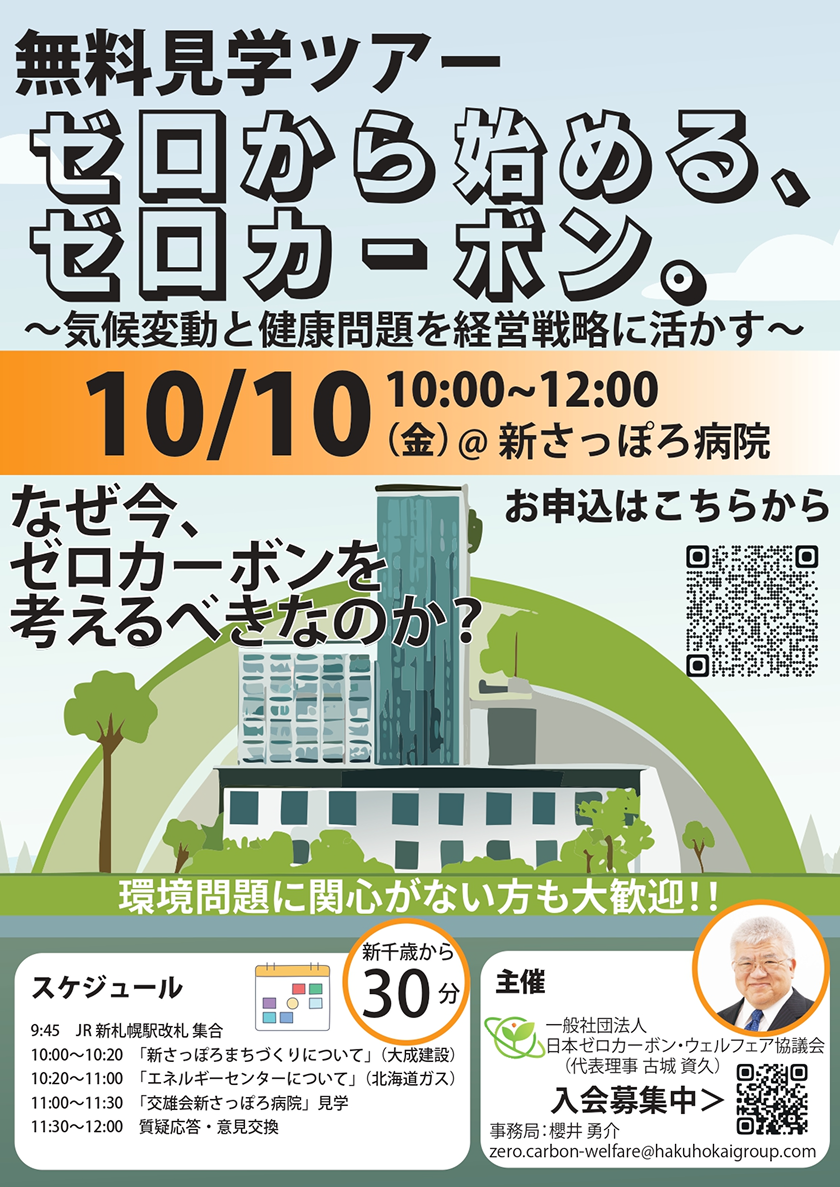
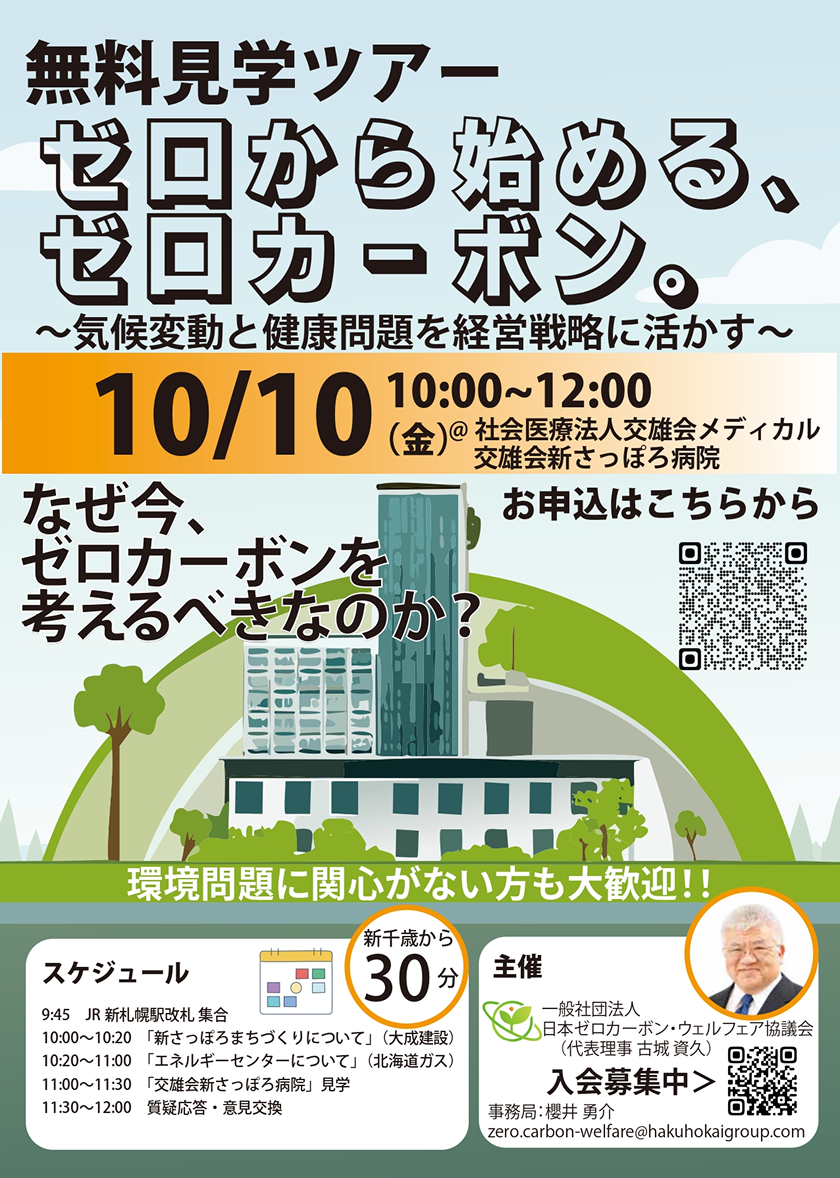
---

diff --git a/index.html b/index.html
@@ -193,11 +193,11 @@
 
                     <span style="color: #669E5E;font-weight: 700;">開催概要</span><br>
                     ・日時：2025年10月10日（金）10:00〜12:00（予定）<br>
-                    ・会場：新さっぽろエネルギーセンター・交雄会新さっぽろ病院<br><br>
+                    ・会場：社会医療法人 交雄会メディカル 交雄会新さっぽろ病院<br><br>
 
                     <span style="color: #669E5E;font-weight: 700;">なぜ今、ゼロカーボンを考えるべきなのか？</span><br>
                     気候変動は遠い未来の話ではありません。<br>近年の夏の猛暑は、熱中症をはるかに上回る「暑熱関連死」という新たな健康問題を引き起こしています。これは、医療機関にとって無視できない経営課題です。しかし、この課題は同時に大きなチャンスでもあります。<br>
-                    「新さっぽろ病院」は、街全体でエネルギーを管理する先進的な取り組みにより、環境負荷を下げながらも、大幅なコスト削減と経営効率の向上を実現しました。この見学ツアーでは、単なる環境問題への対応に留まらない、病院経営を根本から変えるヒントを掴むことができます。<br><br>
+                    「社会医療法人 交雄会メディカル 交雄会新さっぽろ病院」は、街全体でエネルギーを管理する先進的な取り組みにより、環境負荷を下げながらも、大幅なコスト削減と経営効率の向上を実現しました。この見学ツアーでは、単なる環境問題への対応に留まらない、病院経営を根本から変えるヒントを掴むことができます。<br><br>
 
                     <span style="color: #669E5E;font-weight: 700;">見学ツアーで学べること</span><br>
                     ・コスト削減：省エネ型機器やエネルギーセンターの活用による、電気・熱供給の効率化<br>
@@ -209,7 +209,7 @@
                     ・9:45　JR新札幌駅改札 集合<br>
                     ・10:00〜10:20　「新さっぽろまちづくりについて」説明（大成建設より）<br>
                     ・10:20〜11:00　「エネルギーセンターについて」説明・見学（北海道ガスより）<br>
-                    ・11:00〜11:30　「交雄会新さっぽろ病院」見学<br>
+                    ・11:00〜11:30　「社会医療法人 交雄会メディカル 交雄会新さっぽろ病院」見学<br>
                     ・11:30〜12:00　質疑応答・意見交換<br><br>
 
                     <span style="color: #669E5E;font-weight: 700;">お申し込み</span><br>
